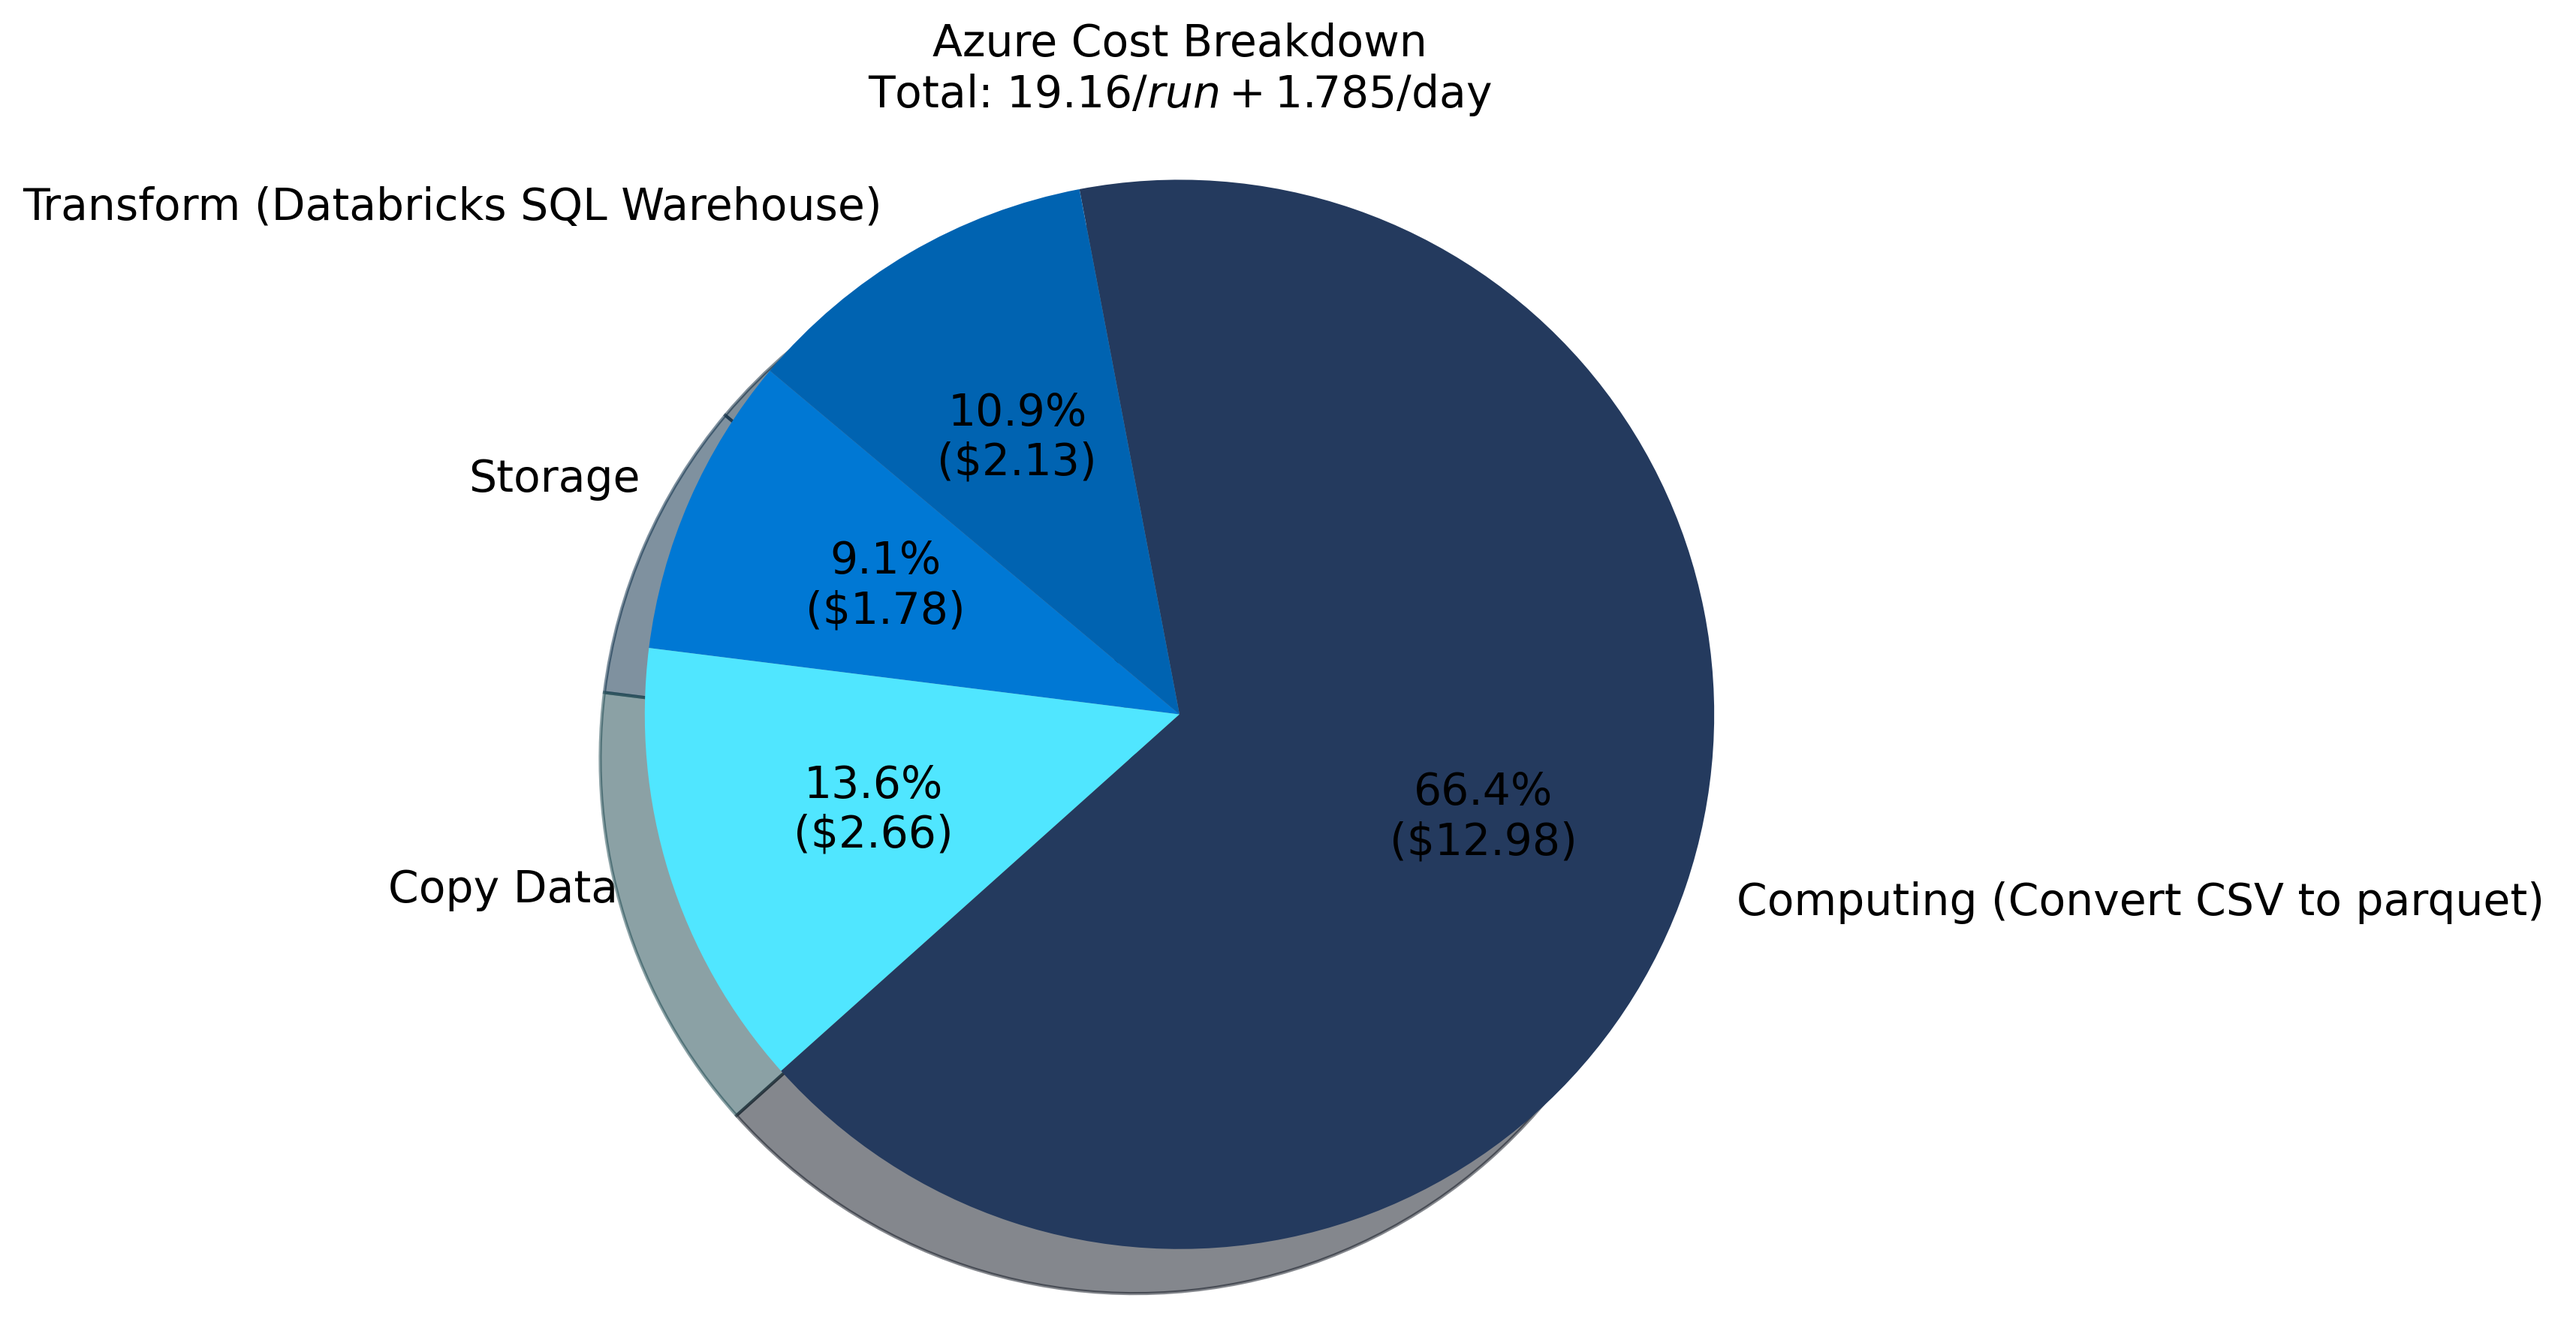
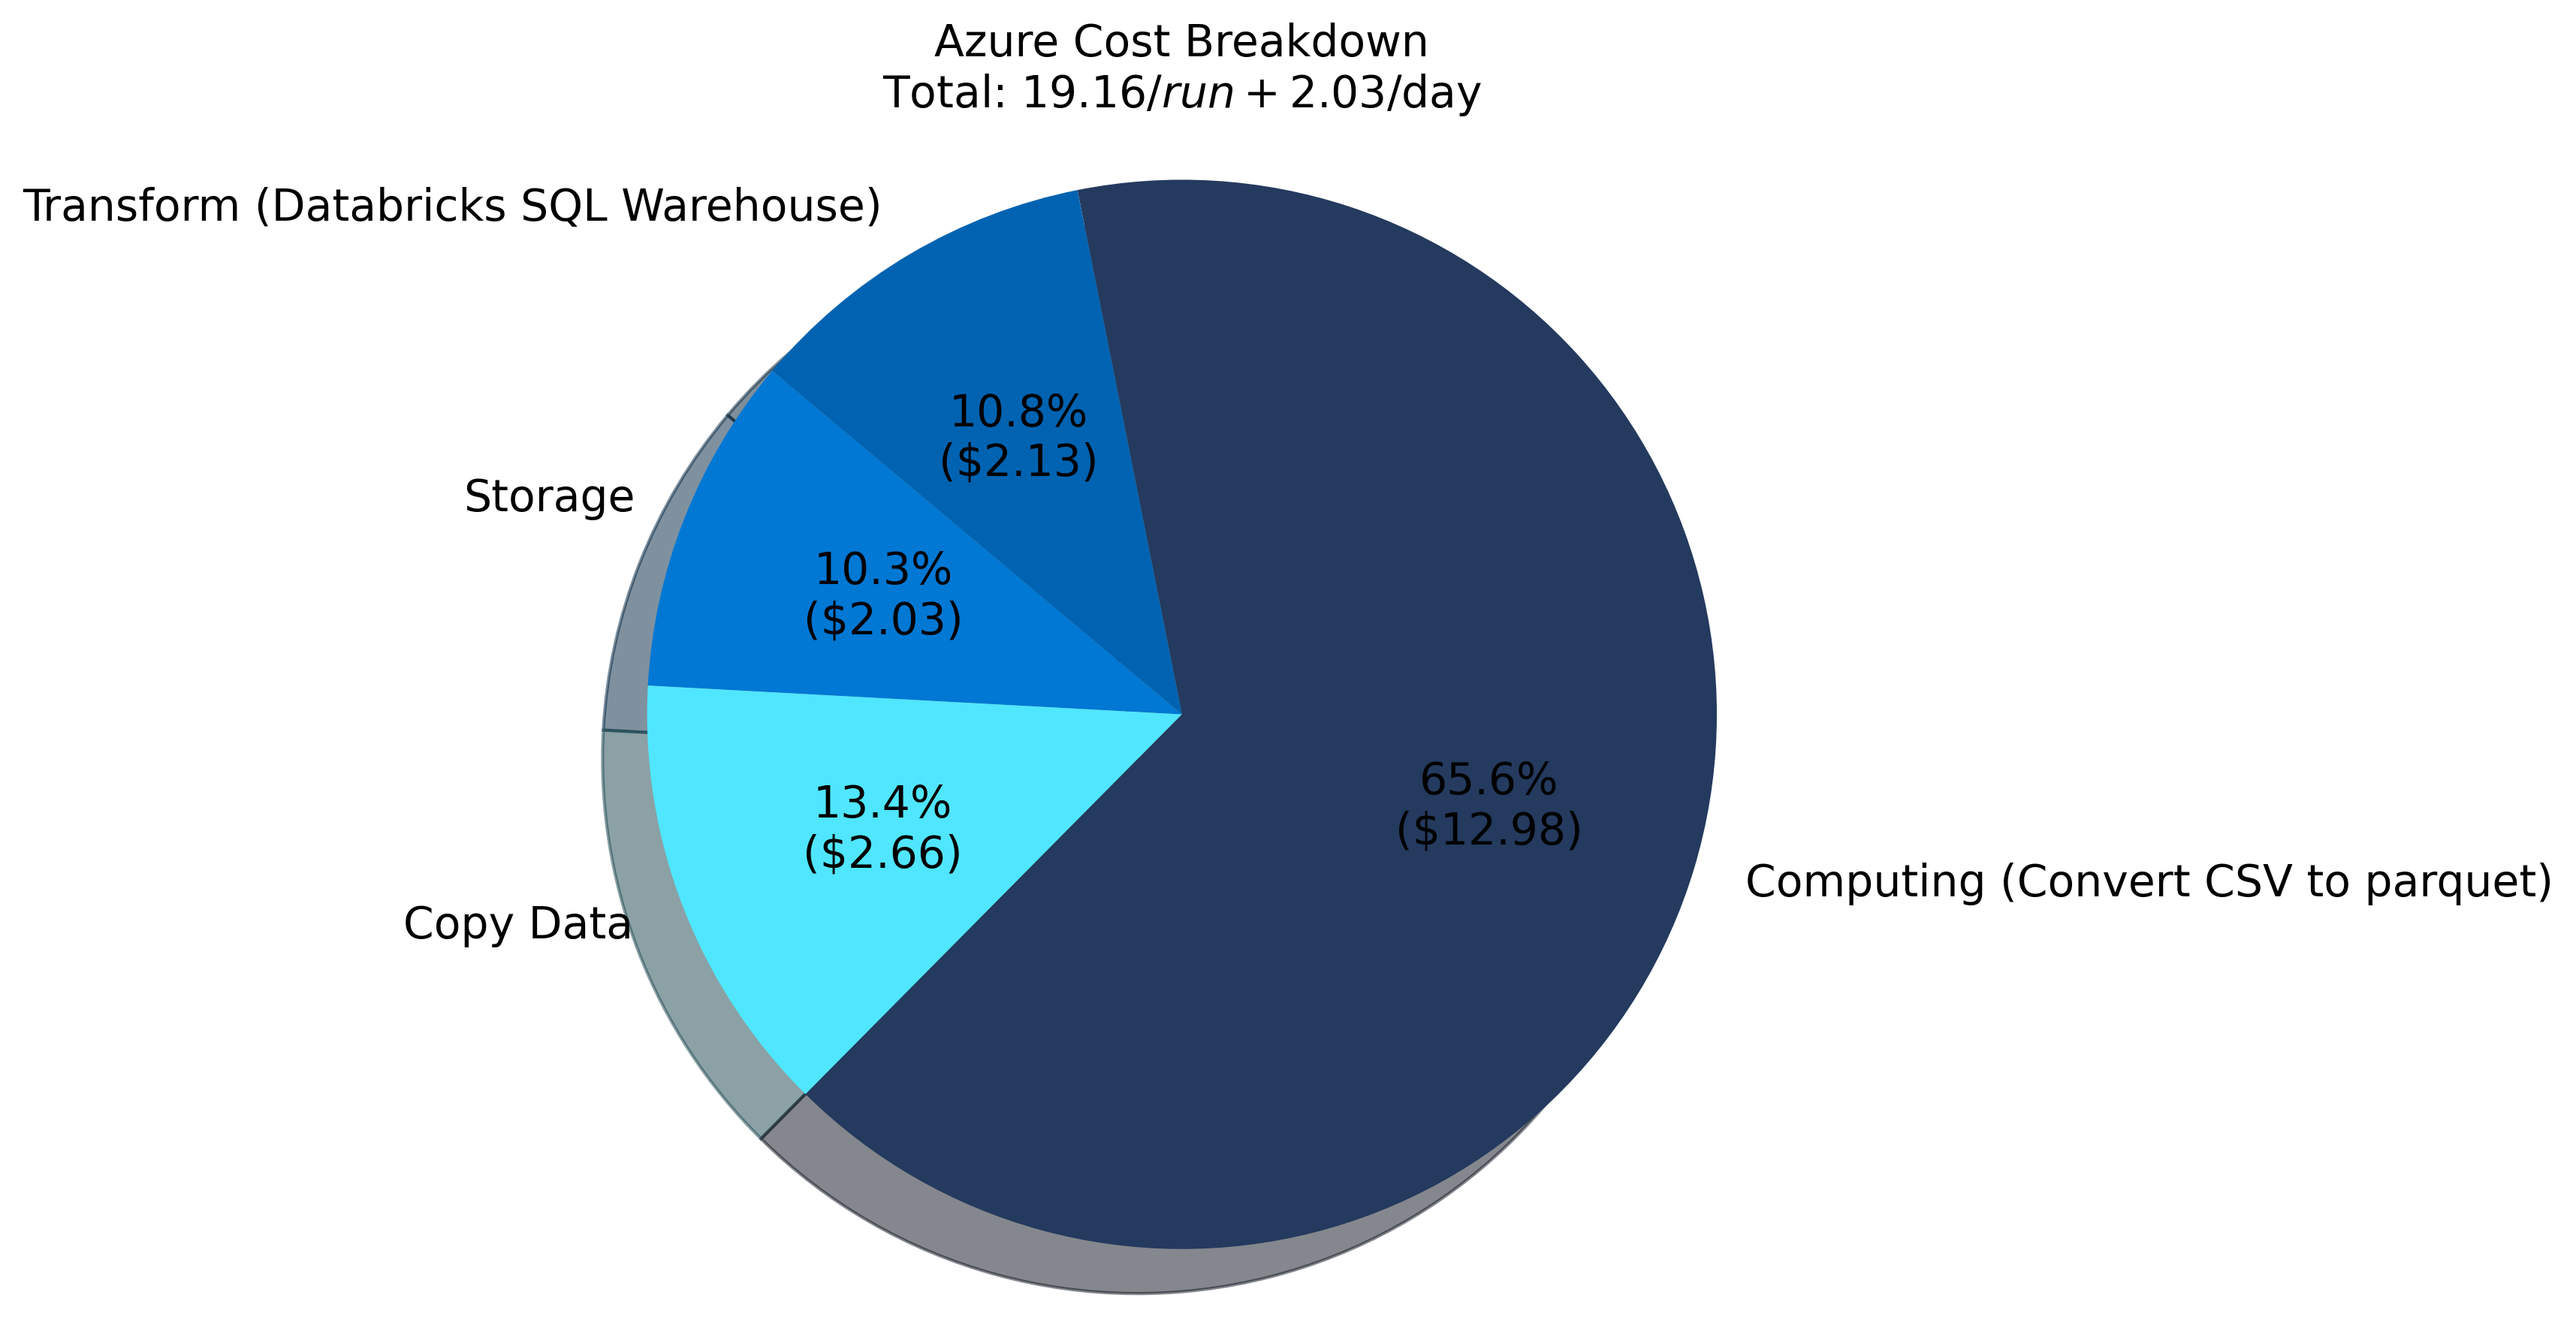
Update README.md, charts and relative charts

diff --git a/scripts/create_cost_performance_charts.py b/scripts/create_cost_performance_charts.py
@@ -12,14 +12,14 @@ os.makedirs(os.path.join(PROJECT_ROOT, 'images/comparison'), exist_ok=True)
 
 # Cost comparison data (in USD)
 # Azure costs
-azure_storage_cost = 1.785  # daily storage cost (0.255 * 7 for 7-day time travel)
+azure_storage_cost = 2.03  # daily storage cost (0.29 * 7 for 7-day time travel)
 azure_copy_data_cost = 2.66  # data transfer cost per run (formerly network)
 azure_compute_vm_cost = 1.88  # VM instance cost per run
 azure_compute_databricks_cost = 11.10  # Databricks cluster cost per run
 azure_transform_cost = 2.13  # Databricks SQL Warehouse cost per run
 
 # GCP costs
-gcp_storage_cost = 0.85  # daily storage cost (0.57 + 0.28)
+gcp_storage_cost = 0.69  # daily storage cost (0.59 + 0.1)
 gcp_copy_data_cost = 12.98  # data egress cost per run (formerly network)
 gcp_compute_vm_cost = 2.60  # VM instance cost per run
 gcp_compute_databricks_cost = 14.22  # Databricks cluster cost per run
@@ -116,7 +116,7 @@ plt.pie(azure_sizes, labels=azure_labels, colors=azure_colors,
         autopct=make_autopct(azure_sizes),
         shadow=True, startangle=140, textprops={'fontsize': 14})
 plt.axis('equal')
-plt.title('Azure Cost Breakdown\nTotal: $19.16/run + $1.785/day', fontsize=14)
+plt.title('Azure Cost Breakdown\nTotal: $19.16/run + $2.03/day', fontsize=14)
 plt.tight_layout()
 plt.savefig(os.path.join(PROJECT_ROOT, 'images/comparison/azure-cost-breakdown.png'), dpi=300, bbox_inches='tight')
 plt.close()
@@ -136,7 +136,7 @@ plt.pie(gcp_bigquery_sizes, labels=gcp_bigquery_labels, colors=gcp_bigquery_colo
         autopct=make_autopct(gcp_bigquery_sizes),
         shadow=True, startangle=140, textprops={'fontsize': 12})
 plt.axis('equal')
-plt.title('GCP Cost Breakdown with BigQuery\nTotal: $38.31/run + $0.85/day', fontsize=14)
+plt.title('GCP Cost Breakdown with BigQuery\nTotal: $38.31/run + $0.69/day', fontsize=14)
 
 # Second subplot - GCP with Databricks SQL Warehouse
 plt.subplot(1, 2, 2)
@@ -150,7 +150,7 @@ plt.pie(gcp_databricks_sizes, labels=gcp_databricks_labels, colors=gcp_databrick
         autopct=make_autopct(gcp_databricks_sizes),
         shadow=True, startangle=140, textprops={'fontsize': 12})
 plt.axis('equal')
-plt.title('GCP Cost Breakdown with Databricks SQL\nTotal: $33.17/run + $0.85/day', fontsize=14)
+plt.title('GCP Cost Breakdown with Databricks SQL\nTotal: $33.17/run + $0.69/day', fontsize=14)
 
 plt.tight_layout()
 plt.savefig(os.path.join(PROJECT_ROOT, 'images/comparison/gcp-cost-breakdown.png'), dpi=300, bbox_inches='tight')

diff --git a/README.md b/README.md
@@ -273,7 +273,7 @@ The project processes a massive volume of NYC Taxi data:
 
 #### Storage Size Visualization
 
-**Azure Storage Distribution (GiB) - $1.785/day**
+**Azure Storage Distribution (GiB) - $2.03/day**
 
 ```mermaid
 %%{init: {'theme': 'base', 'themeVariables': { 'pie1': '#ff9900', 'pie2': '#1155cc', 'pie3': '#38761d'}}}%%
@@ -283,7 +283,7 @@ pie
     "Transform" : 131.07
 ```
 
-**GCP Storage Distribution (GiB) - $0.85/day**
+**GCP Storage Distribution (GiB) - $0.69/day**
 
 ```mermaid
 %%{init: {'theme': 'base', 'themeVariables': { 'pie1': '#ff9900', 'pie2': '#1155cc', 'pie3': '#38761d'}}}%%
@@ -351,20 +351,20 @@ We tracked the costs associated with running our data pipeline across both cloud
 
 | Cloud Provider | Resource Type | Operation | Service | Cost (USD) |
 |:--------------:|:-------------|:---------|:-------|:----------:|
-| **Azure** | **Storage** | Daily Storage | Azure Storage v2 | **$1.785** (**$0.255** * 7) /day |
+| **Azure** | **Storage** | Daily Storage | Azure Storage v2 | **$2.03** (**$0.29** * 7) /day |
 | | **Compute** | Convert CSV to Parquet | VM Instance | **$1.88/run** |
 | | | | Databricks Cluster Spark Computing | **$11.10/run** |
 | | | Transform Data | Databricks SQL Warehouse | **$2.13/run** |
-| | **TOTAL** | | | **$15.11/run** + $1.785/day |
+| | **TOTAL** | | | **$15.11/run** + $2.03/day |
 | | **Copy Data** | Data Transfer | Azure Data Factory | **$2.66/run** |
 |||||
-| **GCP** | **Storage** | Daily Storage | GCS + BigQuery | **$0.85** ($0.57 + $0.28) /day |
+| **GCP** | **Storage** | Daily Storage | GCS + BigQuery | **$0.69** ($0.59 + $0.1) /day |
 | | **Compute** | Convert CSV to Parquet | VM Instance | **$2.60/run** |
 | | | | Databricks Cluster Spark Computing | **$14.22/run** |
 | | | Transform Data (Option 1) | BigQuery | **$7.84/run** |
 | | | Transform Data (Option 2) | Databricks SQL Warehouse | **$2.70/run** |
-| | **TOTAL (with BigQuery)** | | | **$24.66/run** + $0.85/day |
-| | **TOTAL (with Databricks SQL)** | | | **$19.52/run** + $0.85/day |
+| | **TOTAL (with BigQuery)** | | | **$24.66/run** + $0.69/day |
+| | **TOTAL (with Databricks SQL)** | | | **$19.52/run** + $0.69/day |
 | | **Copy Data** | Data Egress | Storage Transfer | **$12.98/run** |
 |||||
 | **Snowflake** | **Storage** | Daily Storage | GCS + Snowflake | **$1.011** ($0.57 + $0.441)/day |
